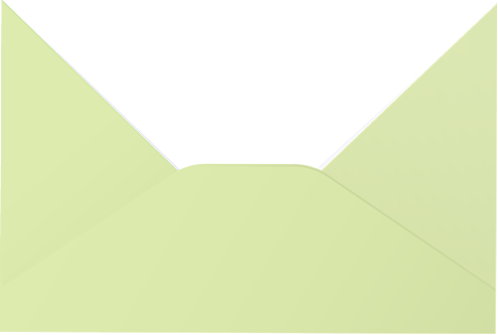
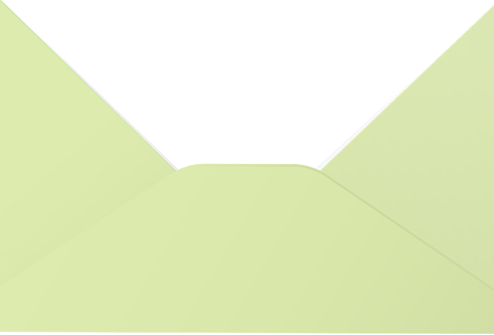
Добавить логотип на конверт и обновить стили крышки

diff --git a/src/html/pages/get-certificate/01screen.html b/src/html/pages/get-certificate/01screen.html
@@ -5,7 +5,7 @@
     <div class="envelope certificate-unbox__envelope">
       <div class="envelope__header">
 
-        <svg class="envelope__cover envelope__cover--open envelope__cover--shadow" width="494" height="225"
+        <svg class="envelope__cover envelope__cover--close envelope__cover--shadow" width="494" height="225"
           viewBox="0 0 494 225" fill="none" xmlns="http://www.w3.org/2000/svg">
           <path
             d="M493.881 29.8494V0.000587364L0.00012639 0.000587364V29.8122C0.00012639 34.123 1.9552 38.2011 5.31602 40.9007L222.775 215.575C229.9 221.298 238.765 224.418 247.905 224.418C257.102 224.418 266.021 221.258 273.167 215.468L488.612 40.8999C491.945 38.1994 493.881 34.1389 493.881 29.8494Z"
@@ -18,12 +18,19 @@
             </linearGradient>
           </defs>
         </svg>
+
       </div>
       <div class="envelope__main">
         @include('./../../common/certificate.html', {class: 'envelope__certificate'})
         <img class="envelope__back" src="./assets/img/envelope-back.png" aria-hidden="true">
 
         <img class="envelope__up" src="./assets/img/envelope-up.png" aria-hidden="true">
+
+        <div class="envelope__label" data-envelope-label>
+          <svg width="181" height="26" aria-hidden="true">
+            <use xlink:href="assets/img/sprite.svg#logo"></use>
+          </svg>
+        </div>
       </div>
     </div>
 

diff --git a/src/style/blocks/quiz/get-certificate/_envelope.scss b/src/style/blocks/quiz/get-certificate/_envelope.scss
@@ -12,7 +12,7 @@
     bottom: 0;
     left: 0;
     width: 100%;
-    height: auto;
+    height: 100%;
   }
 
   &__back {
@@ -39,15 +39,10 @@
     z-index: 3;
 
     &--shadow {
-      filter: drop-shadow(1px 0 14px rgba(0, 0, 0, 0.25));
+      filter: drop-shadow(0 8px 10px rgba(0, 0, 0, 0.2));
     }
 
     &--close {
-      bottom: 30px;
-      left: 0;
-    }
-
-    &--open {
       top: 0;
       left: 0;
       transform: rotateX(var(--cover-rotate));
@@ -57,6 +52,11 @@
       transition:
         transform 1s ease,
         z-index 0s 1s;
+    }
+
+    &--open {
+      bottom: -10px;
+      left: 0;
     }
   }
 
@@ -76,6 +76,21 @@
     transform: translateY(var(--certificate-translateY));
     transition: transform 1s ease;
     transition-delay: 1s;
+  }
+
+  &__label {
+    display: flex;
+    position: absolute;
+    top: 50%;
+    left: 50%;
+    transform: translate(-50%, -50%);
+    z-index: 3;
+    padding: 18px;
+    border-radius: 13px;
+    background-color: rgba(255, 255, 255, 0.5);
+    backdrop-filter: blur(5.5px);
+    box-shadow: 1px 0 5px 0 rgba(17, 85, 57, 0.15);
+    color: #12612e;
   }
 }
 

diff --git a/src/html/pages/success/index.html b/src/html/pages/success/index.html
@@ -5,7 +5,7 @@
 
     <div class="success__envelope envelope envelope--open">
       <div class="envelope__header">
-        <img class="envelope__cover envelope__cover--close" src="./assets/img/envelope-cover.png" aria-hidden="true">
+        <img class="envelope__cover envelope__cover--open" src="./assets/img/envelope-cover.png" aria-hidden="true">
       </div>
       <div class="envelope__main">
         @include('./../../common/certificate.html', {class: 'envelope__certificate'})

diff --git a/src/style/settings/_global.scss b/src/style/settings/_global.scss
@@ -11,6 +11,8 @@ img {
 }
 
 .logo {
+  opacity: 0.5;
+  color: var(--black);
 }
 
 .background1-1 {
